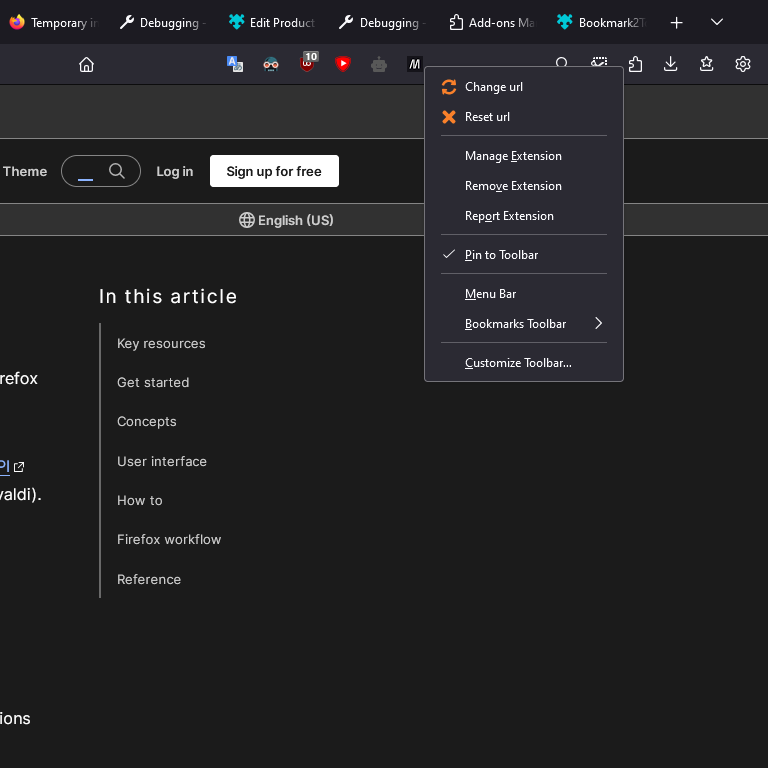
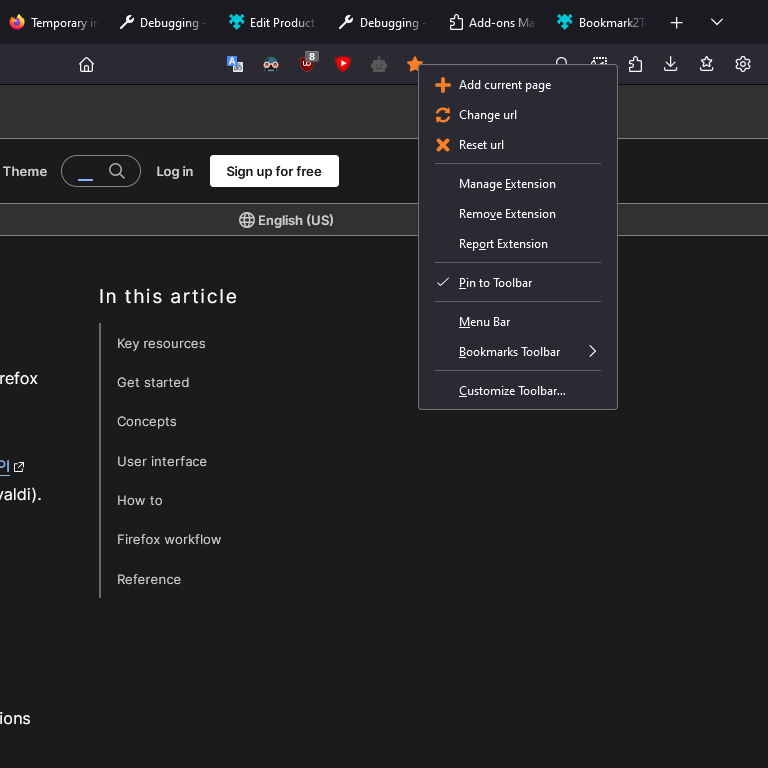
Add current page feature added

Changed region(s): [[0.5312, 0.0938, 0.8125, 0.5312], [0.5312, 0.0625, 0.5625, 0.0938], [0.375, 0.0625, 0.4062, 0.0938]]

diff --git a/background.js b/background.js
@@ -4,6 +4,15 @@
 browser.runtime.onInstalled.addListener(details => {
 	localStorage.removeItem('exUrl');
 	browser.menus.create({
+		id: 'exAddUrl',
+		title: 'Add current page',
+		contexts: ['browser_action'],
+		icons: {
+			16: 'icons/add16.png',
+			32: 'icons/add32.png',
+		},
+	});
+	browser.menus.create({
 		id: 'exChangeUrl',
 		title: 'Change url',
 		contexts: ['browser_action'],
@@ -23,16 +32,22 @@ browser.runtime.onInstalled.addListener(details => {
 	});
 });
 
-browser.runtime.onMessage.addListener(msg => msg.resetUrl && resetUrl());
-
-browser.browserAction.onClicked.addListener(e => {
-	if (localStorage.getItem('exUrl')) browser.tabs.create({ url: localStorage.getItem('exUrl') });
-	else openPopup();
-	logger({ data: e });
+browser.runtime.onMessage.addListener(msg => {
+	if (msg.addUrl) addUrl(msg.addUrl);
+	if (msg.resetUrl) resetUrl();
 });
 
-browser.menus.onClicked.addListener(info => {
+browser.browserAction.onClicked.addListener(tabInfo => {
+	if (localStorage.getItem('exUrl')) browser.tabs.create({ url: localStorage.getItem('exUrl') });
+	else openPopup();
+});
+
+browser.menus.onClicked.addListener((clickInfo, tabInfo) => {
 	const menuItem = {
+		exAddUrl() {
+			resetUrl();
+			addUrl(tabInfo.url);
+		},
 		exChangeUrl() {
 			resetUrl();
 			openPopup();
@@ -41,9 +56,20 @@ browser.menus.onClicked.addListener(info => {
 			resetUrl();
 		},
 	};
-	const action = info.menuItemId;
+	const action = clickInfo.menuItemId;
 	menuItem[action]();
 });
+
+function addUrl(url) {
+	const urlObj = sanitizeUrl(url);
+	localStorage.setItem('exUrl', urlObj);
+	browser.browserAction.setIcon({
+		path: {
+			16: `https://www.google.com/s2/favicons?domain=${urlObj.hostname}&sz=16`,
+			32: `https://www.google.com/s2/favicons?domain=${urlObj.hostname}&sz=32`,
+		},
+	});
+}
 
 function resetUrl() {
 	localStorage.removeItem('exUrl');
@@ -67,4 +93,10 @@ function logger(data) {
 				log: data,
 			});
 		});
+}
+
+function sanitizeUrl(str) {
+	if (str.includes('www.')) str = str.replace('www.', '');
+	if (str.startsWith('http')) return new URL(str);
+	return new URL('https://' + str);
 }

diff --git a/popup/popup.js b/popup/popup.js
@@ -4,28 +4,16 @@
 const label = document.querySelector('.ex-label');
 const input = document.querySelector('.ex-input');
 
+document.querySelector('.ex-form').addEventListener('submit', e => {
+	e.preventDefault();
+	const url = input.value;
+	browser.runtime.sendMessage({ addUrl: url });
+	input.value = '';
+	label.textContent = 'Done!';
+});
+
 document.querySelector('.ex-btn-reset').addEventListener('click', e => {
 	browser.runtime.sendMessage({ resetUrl: true });
 	label.textContent = 'Enter url';
 	input.value = '';
 });
-
-document.querySelector('.ex-form').addEventListener('submit', e => {
-	e.preventDefault();
-	const url = sanitizeUrl(input.value);
-	localStorage.setItem('exUrl', url);
-	input.value = '';
-	label.textContent = 'Done!';
-	browser.browserAction.setIcon({
-		path: {
-			16: `https://www.google.com/s2/favicons?domain=${url.hostname}&sz=16`,
-			32: `https://www.google.com/s2/favicons?domain=${url.hostname}&sz=32`,
-		},
-	});
-});
-
-function sanitizeUrl(str) {
-	if (str.includes('www.')) str = str.replace('www.', '');
-	if (str.startsWith('http')) return new URL(str);
-	return new URL('https://' + str);
-}
